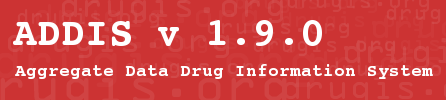
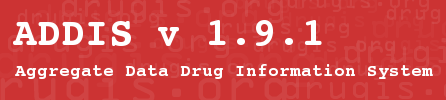
Automated changes for 1.9.1 release

Changed region(s): [[0.6704, 0.21, 0.7287, 0.48]]

diff --git a/src/test/java/org/drugis/addis/entities/DrugSetTest.java b/src/test/java/org/drugis/addis/entities/DrugSetTest.java
@@ -1,3 +1,27 @@
+/*
+ * This file is part of ADDIS (Aggregate Data Drug Information System).
+ * ADDIS is distributed from http://drugis.org/.
+ * Copyright (C) 2009 Gert van Valkenhoef, Tommi Tervonen.
+ * Copyright (C) 2010 Gert van Valkenhoef, Tommi Tervonen, 
+ * Tijs Zwinkels, Maarten Jacobs, Hanno Koeslag, Florin Schimbinschi, 
+ * Ahmad Kamal, Daniel Reid.
+ * Copyright (C) 2011 Gert van Valkenhoef, Ahmad Kamal, 
+ * Daniel Reid, Florin Schimbinschi.
+ *
+ * This program is free software: you can redistribute it and/or modify
+ * it under the terms of the GNU General Public License as published by
+ * the Free Software Foundation, either version 3 of the License, or
+ * (at your option) any later version.
+ *
+ * This program is distributed in the hope that it will be useful,
+ * but WITHOUT ANY WARRANTY; without even the implied warranty of
+ * MERCHANTABILITY or FITNESS FOR A PARTICULAR PURPOSE.  See the
+ * GNU General Public License for more details.
+ *
+ * You should have received a copy of the GNU General Public License
+ * along with this program.  If not, see <http://www.gnu.org/licenses/>.
+ */
+
 package org.drugis.addis.entities;
 
 import static org.junit.Assert.assertEquals;

diff --git a/src/main/java/org/drugis/addis/entities/DrugSet.java b/src/main/java/org/drugis/addis/entities/DrugSet.java
@@ -1,6 +1,27 @@
-/**
- * 
+/*
+ * This file is part of ADDIS (Aggregate Data Drug Information System).
+ * ADDIS is distributed from http://drugis.org/.
+ * Copyright (C) 2009 Gert van Valkenhoef, Tommi Tervonen.
+ * Copyright (C) 2010 Gert van Valkenhoef, Tommi Tervonen, 
+ * Tijs Zwinkels, Maarten Jacobs, Hanno Koeslag, Florin Schimbinschi, 
+ * Ahmad Kamal, Daniel Reid.
+ * Copyright (C) 2011 Gert van Valkenhoef, Ahmad Kamal, 
+ * Daniel Reid, Florin Schimbinschi.
+ *
+ * This program is free software: you can redistribute it and/or modify
+ * it under the terms of the GNU General Public License as published by
+ * the Free Software Foundation, either version 3 of the License, or
+ * (at your option) any later version.
+ *
+ * This program is distributed in the hope that it will be useful,
+ * but WITHOUT ANY WARRANTY; without even the implied warranty of
+ * MERCHANTABILITY or FITNESS FOR A PARTICULAR PURPOSE.  See the
+ * GNU General Public License for more details.
+ *
+ * You should have received a copy of the GNU General Public License
+ * along with this program.  If not, see <http://www.gnu.org/licenses/>.
  */
+
 package org.drugis.addis.entities;
 
 import java.util.Collection;
